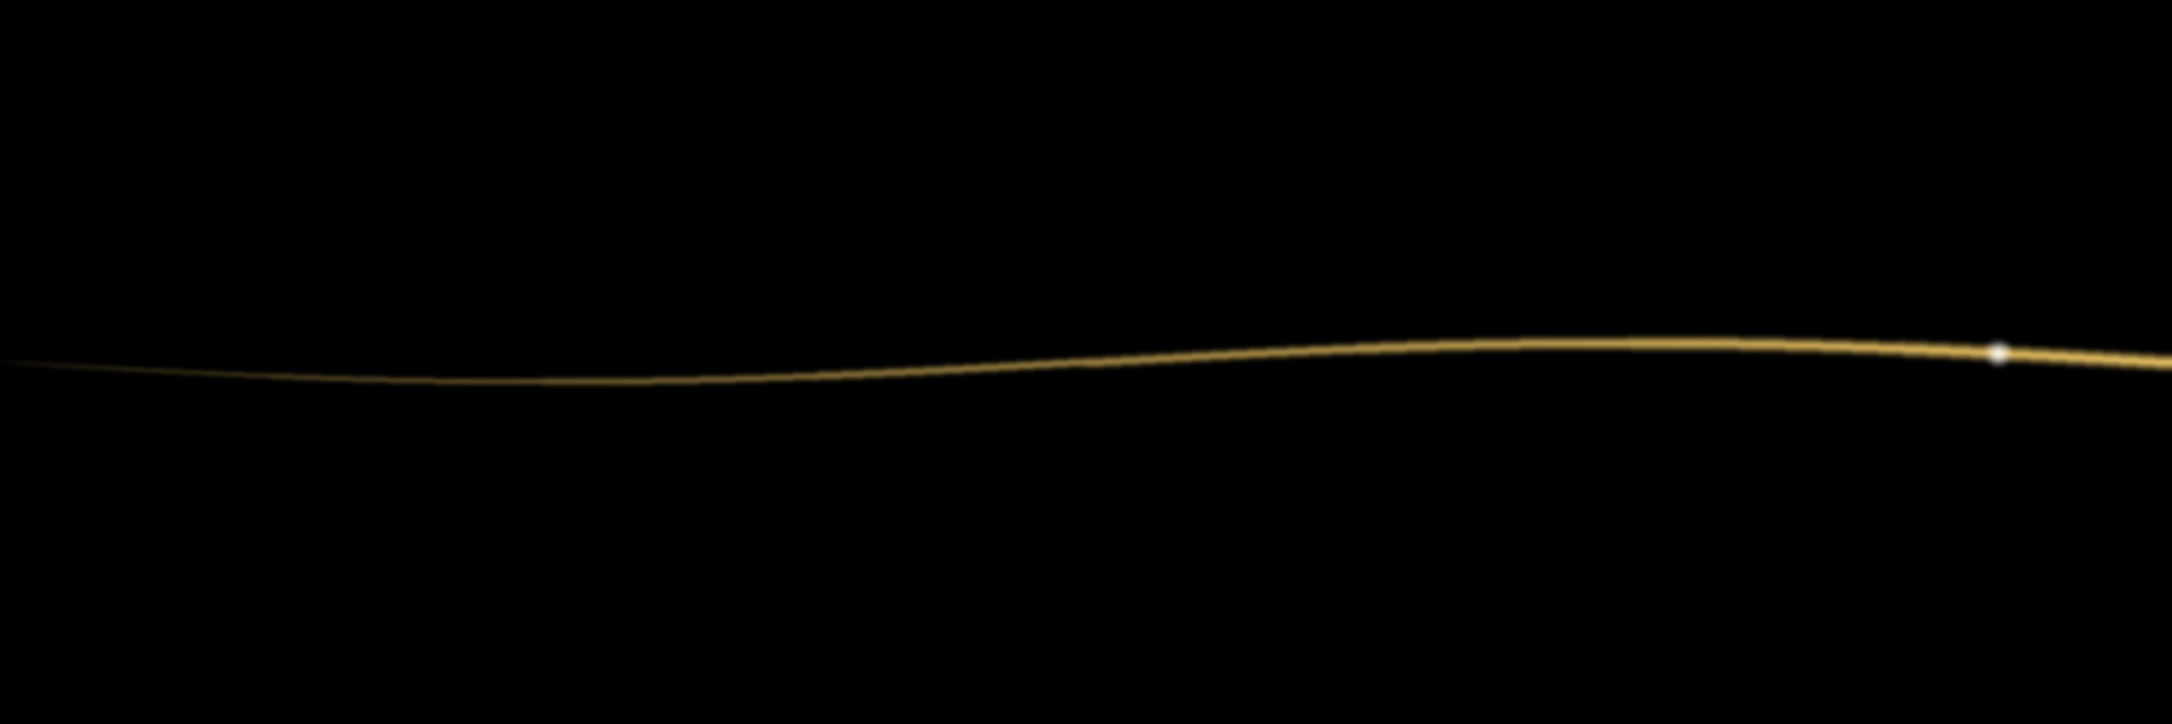
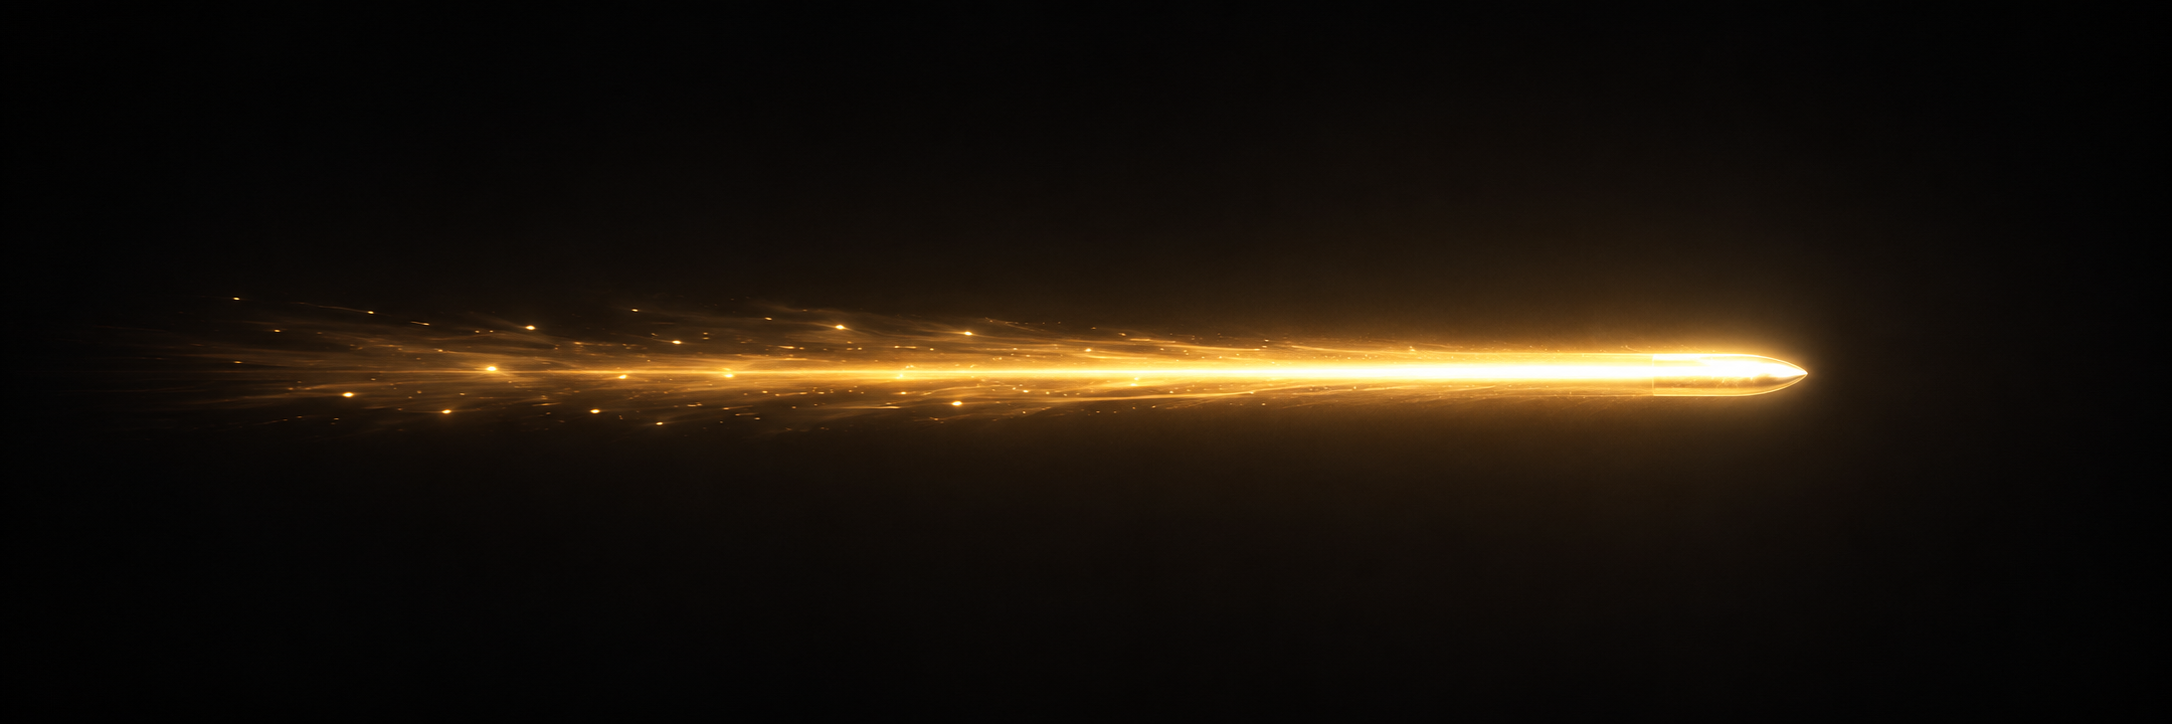
Fix Goldrush image and animation

Changed region(s): [[0.0617, 0.2735, 1.0, 0.7293]]

diff --git a/index.html b/index.html
@@ -2227,21 +2227,13 @@
           transform: translateX(-110%) scale(1.0);
           opacity: 0.15;
         }
-        20% {
-          transform: translateX(110%) scale(1.04);
-          opacity: 1;
-        }
-        40% {
-          transform: translateX(-110%) scale(1.0);
-          opacity: 0.82;
-        }
         60% {
           transform: translateX(110%) scale(1.04);
           opacity: 1;
         }
-        78% {
-          transform: translateX(-34%) scale(1.02);
-          opacity: 0.9;
+        75% {
+          transform: translateX(110%) scale(1.04);
+          opacity: 1;
         }
         100% {
           transform: translateX(0) scale(1.04);
